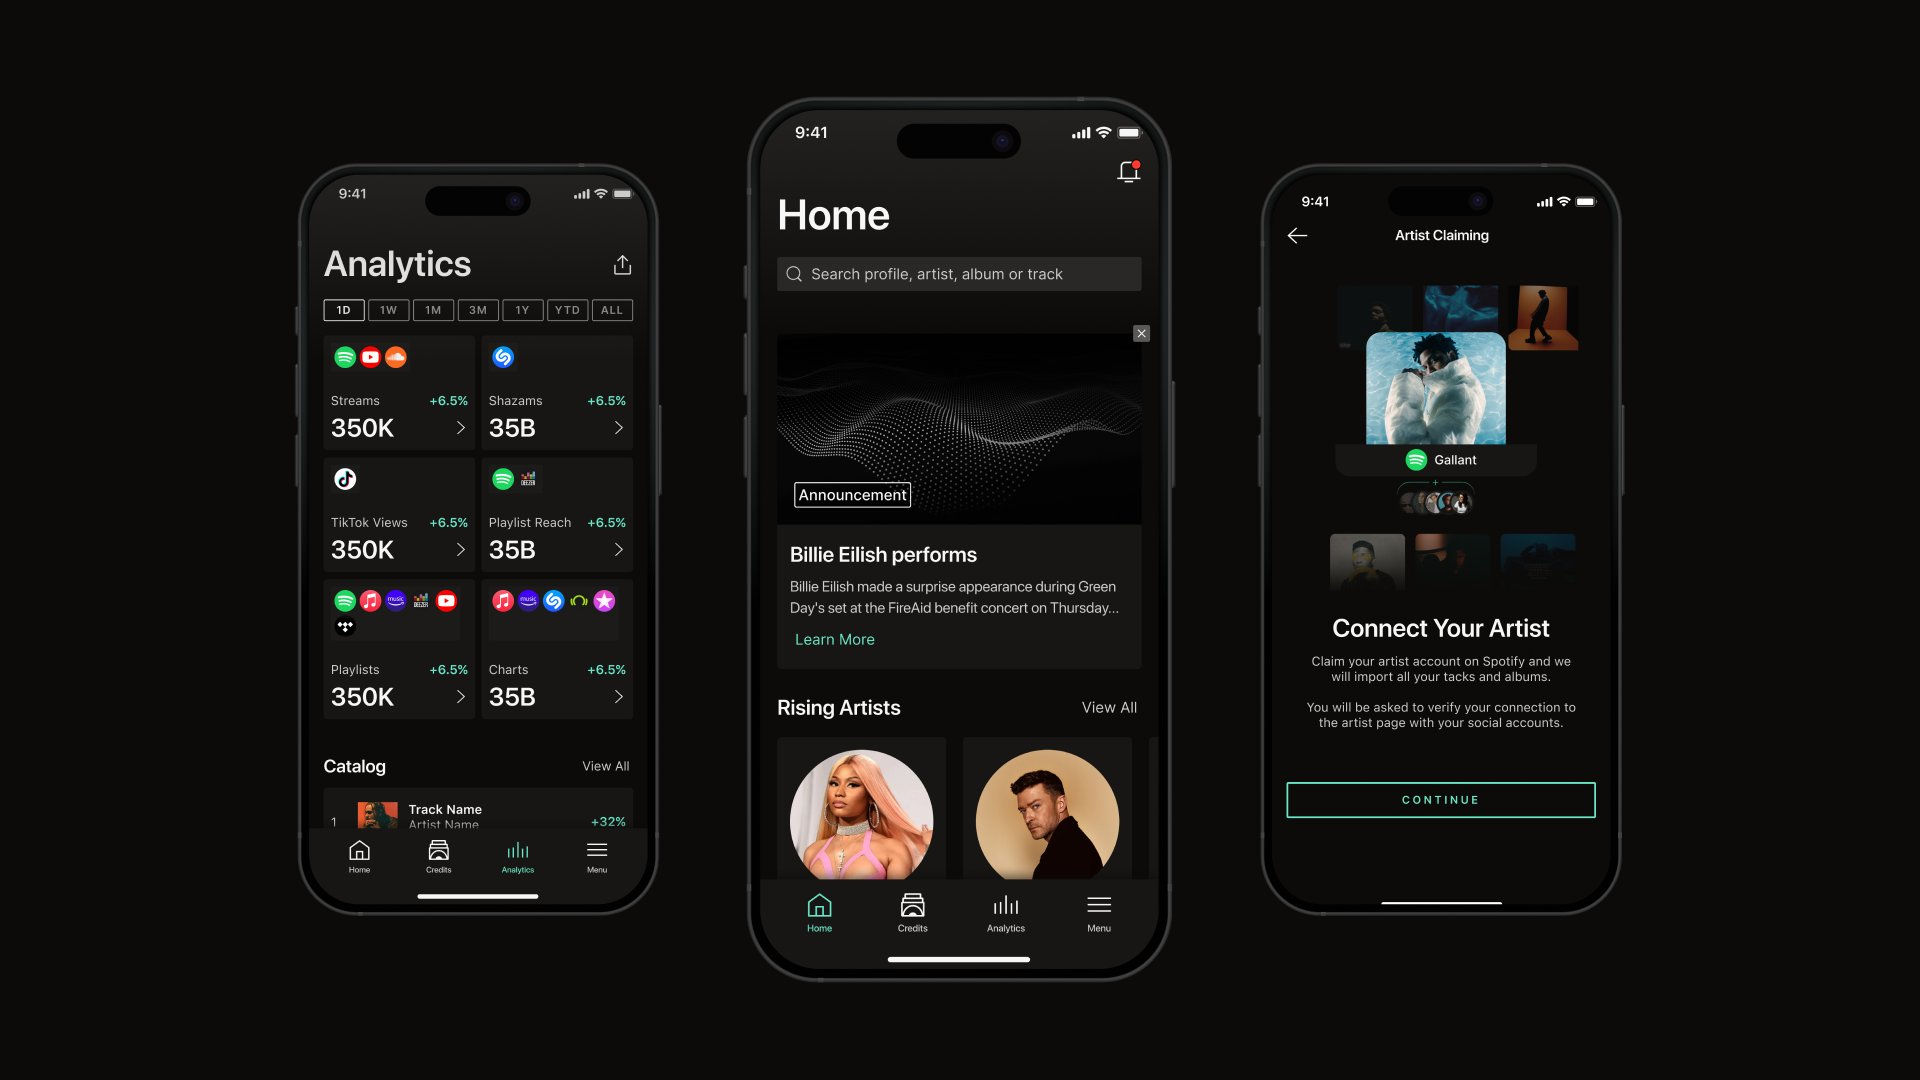
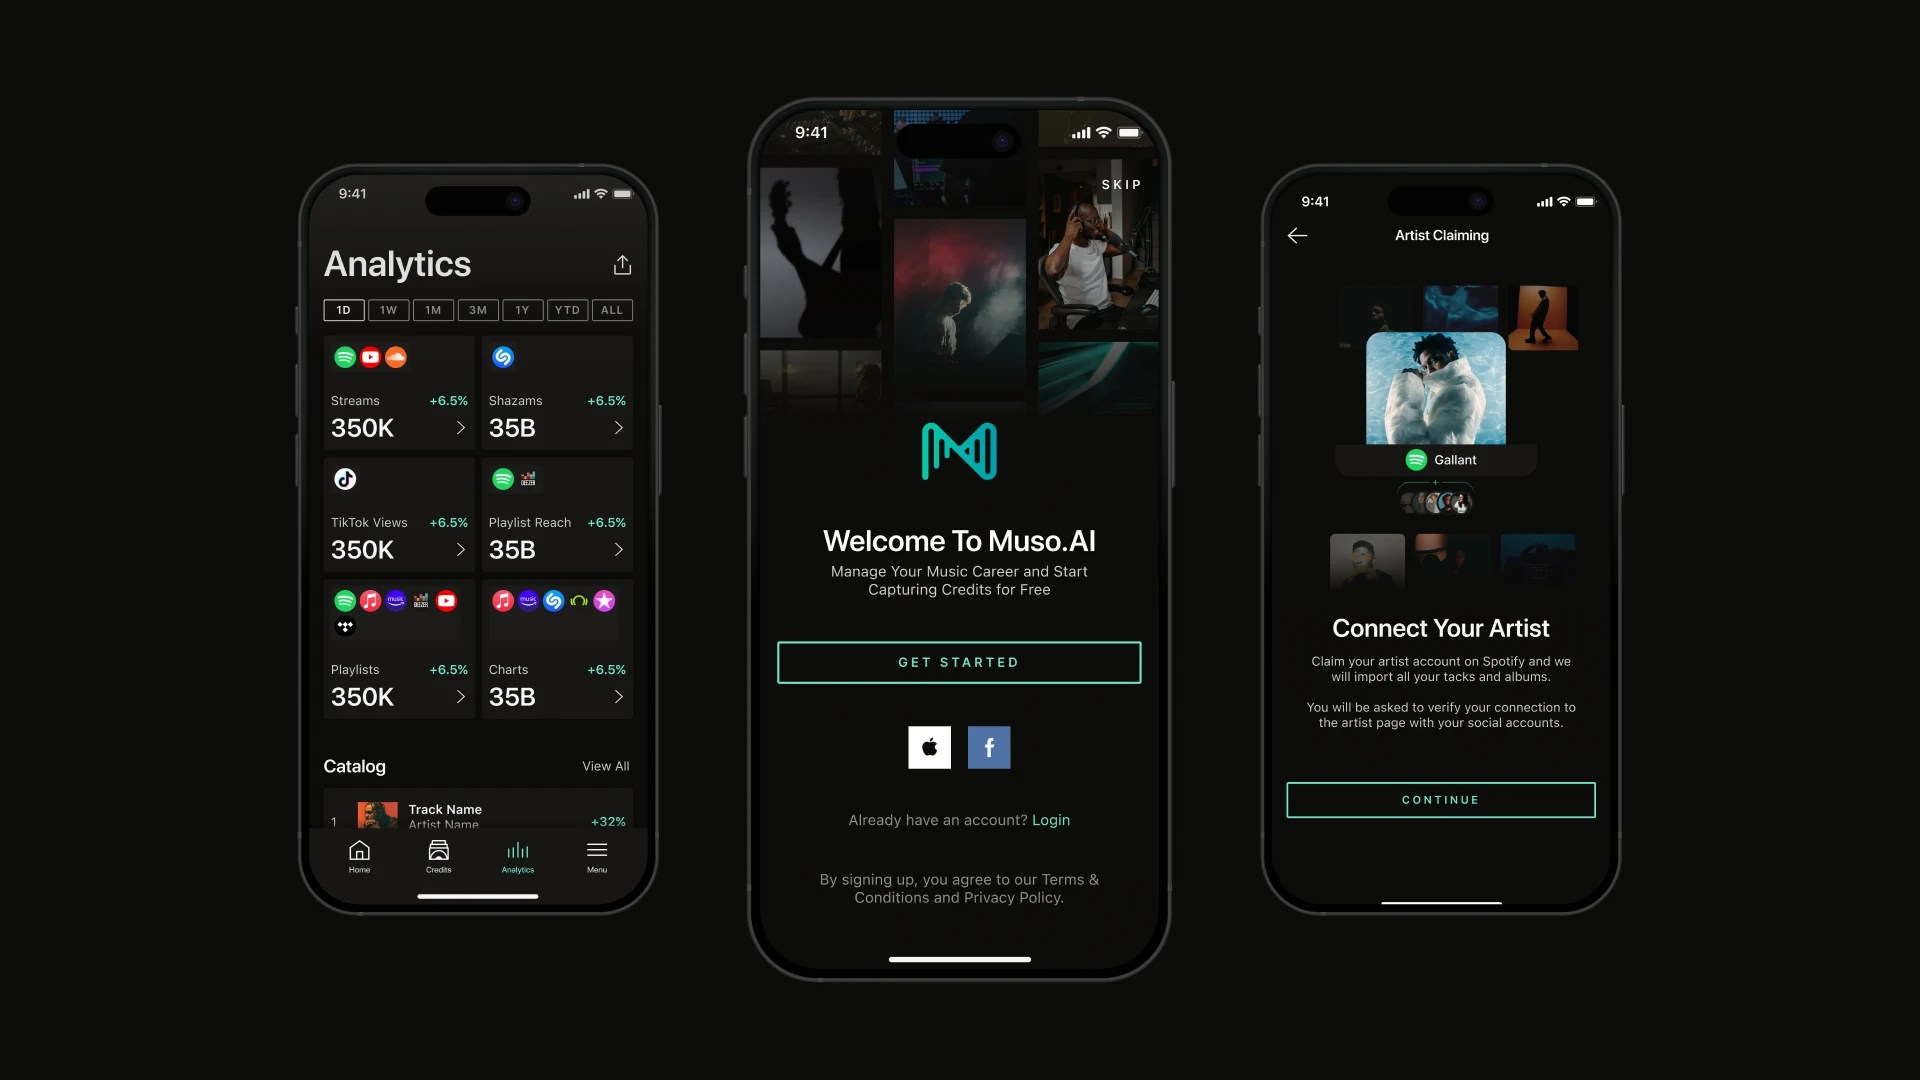
Add Falc AI case study and new Muso.AI cover

diff --git a/work/falc-ai.html b/work/falc-ai.html
@@ -1,0 +1,225 @@
+<!doctype html>
+<html lang="en">
+<head>
+<meta charset="utf-8">
+<meta name="robots" content="noindex">
+<meta name="viewport" content="width=device-width, initial-scale=1, viewport-fit=cover">
+<title>Falc AI — Case study — Anton Shmatko</title>
+<meta name="description" content="An AI-powered store analytics platform. I helped turn complex data and administrative workflows into a clearer interface for understanding store performance and managing team access.">
+<script>var d=document.documentElement;try{localStorage.removeItem('theme');if(sessionStorage.getItem('theme')!=='dark')d.setAttribute('data-theme','light')}catch(e){d.setAttribute('data-theme','light')}</script>
+<link rel="canonical" href="https://anton-portfolio-five.vercel.app/work/falc-ai">
+<meta property="og:type" content="website">
+<meta property="og:site_name" content="Anton Shmatko">
+<meta property="og:url" content="https://anton-portfolio-five.vercel.app/work/falc-ai">
+<meta property="og:title" content="Falc AI — Case study — Anton Shmatko">
+<meta property="og:description" content="An AI-powered store analytics platform. I helped turn complex data and administrative workflows into a clearer interface for understanding store performance and managing team access.">
+<meta property="og:image" content="https://anton-portfolio-five.vercel.app/assets/og.png">
+<meta property="og:image:width" content="1200">
+<meta property="og:image:height" content="630">
+<meta name="twitter:card" content="summary_large_image">
+<link rel="icon" href="../assets/favicon.png" type="image/png">
+<link rel="apple-touch-icon" href="../assets/apple-touch-icon.png">
+<link rel="preconnect" href="https://fonts.googleapis.com">
+<link rel="preconnect" href="https://fonts.gstatic.com" crossorigin>
+<link href="https://fonts.googleapis.com/css2?family=Urbanist:ital,wght@0,300;0,400;0,500;0,600;1,300;1,400&display=swap" rel="stylesheet">
+<link rel="stylesheet" href="../assets/site.css">
+<link rel="stylesheet" href="../assets/case.css">
+<script src="../assets/media.js"></script>
+</head>
+<body>
+<canvas id="stars" aria-hidden="true"></canvas>
+
+<div class="page">
+  <header class="top">
+    <div class="wrap">
+      <a class="id" href="../index.html" aria-label="Anton Shmatko — home"><span class="logo">AS</span></a>
+      <span class="status"><i aria-hidden="true"></i>Open to new opportunities</span>
+      <nav class="main" aria-label="Main">
+        <a class="link" href="index.html">Work</a>
+        <a class="link" href="../about.html">About</a>
+        <a class="pill" href="#contact">Get in touch</a>
+      </nav>
+    </div>
+  </header>
+
+  <main>
+    <div class="wrap case-hero">
+      <a class="label back" href="index.html"><svg viewBox="0 0 16 16" fill="none" aria-hidden="true" width="14" height="14"><path d="M13 8H3M7 4L3 8l4 4" stroke="currentColor" stroke-width="1.5"/></svg>All work</a>
+      <span class="label eyebrow">Case study · Retail analytics</span>
+      <h1>Falc AI</h1>
+      <p class="lede">An AI-powered store analytics platform. I helped turn complex data and administrative workflows into a clearer interface for understanding store performance and managing team access.</p>
+
+      <dl class="case-meta">
+        <div><dt class="label">My role</dt><dd>Product Designer</dd></div>
+        <div><dt class="label">Scope</dt><dd>Analytics · User management</dd></div>
+        <div><dt class="label">Platform</dt><dd>Web Application</dd></div>
+      </dl>
+
+      <figure class="case-cover">
+        <div class="frame" style="--ratio: 16 / 9" data-hint="Cover image · 2400×1350 · JPG or WebP">
+          <img src="../media/falc-ai/01.jpg" alt="Falc AI — product overview" fetchpriority="high">
+        </div>
+      </figure>
+    </div>
+
+    <div class="wrap case-body">
+      <div class="case-text reveal">
+        <h2>Overview</h2>
+        <div class="body">
+          <p>Falc AI brings store analytics into a digital workspace, helping teams explore performance data and understand what is happening across their retail operations.</p>
+          <p>My design work focused on making that information easier to navigate and act on. Alongside the analytics experience, I worked on user management to give the platform a consistent approach to everyday administration.</p>
+        </div>
+      </div>
+
+      <div class="gallery">
+        <figure class="full">
+          <div class="frame" style="--ratio: 16 / 9" data-hint="1920×1080 · JPG, PNG or WebP">
+            <img src="../media/falc-ai/02.jpg" alt="Falc AI — screen 2" loading="lazy">
+          </div>
+        </figure>
+        <figure>
+          <div class="frame" style="--ratio: 16 / 9" data-hint="950×534 · JPG, PNG or WebP">
+            <img src="../media/falc-ai/03.jpg" alt="Falc AI — screen 3" loading="lazy">
+          </div>
+        </figure>
+        <figure>
+          <div class="frame" style="--ratio: 16 / 9" data-hint="950×534 · JPG, PNG or WebP">
+            <img src="../media/falc-ai/04.jpg" alt="Falc AI — screen 4" loading="lazy">
+          </div>
+        </figure>
+      </div>
+
+      <div class="case-text reveal">
+        <h2>My role</h2>
+        <div class="body">
+          <p>As a Product Designer, I translated product requirements into structured workflows and detailed interfaces. My focus was on connecting data-heavy screens with clear navigation, readable layouts, and consistent interaction patterns.</p>
+          <ul>
+            <li>Organized analytics interfaces around clear information hierarchy.</li>
+            <li>Designed user management workflows for administering team access.</li>
+            <li>Established reusable interface patterns across product screens.</li>
+          </ul>
+        </div>
+      </div>
+
+      <div class="gallery">
+        <figure class="full">
+          <div class="frame" style="--ratio: 16 / 9" data-hint="1920×1080 · JPG, PNG or WebP">
+            <img src="../media/falc-ai/05.jpg" alt="Falc AI — screen 5" loading="lazy">
+          </div>
+        </figure>
+      </div>
+
+      <div class="case-text reveal">
+        <h2>Challenge</h2>
+        <div class="body">
+          <p>Store analytics can present a large amount of information at once. Without a clear hierarchy, users have to spend time interpreting the interface before they can interpret the data.</p>
+          <p>The challenge was to make analytical screens easier to scan while giving administrative tasks, such as user management, the same level of clarity and attention.</p>
+        </div>
+      </div>
+
+      <div class="gallery">
+        <figure class="full">
+          <div class="frame" style="--ratio: 16 / 9" data-hint="1920×1080 · JPG, PNG or WebP">
+            <img src="../media/falc-ai/06.jpg" alt="Falc AI — screen 6" loading="lazy">
+          </div>
+        </figure>
+        <figure class="full">
+          <div class="frame" style="--ratio: 16 / 9" data-hint="1920×1080 · JPG, PNG or WebP">
+            <img src="../media/falc-ai/07.jpg" alt="Falc AI — screen 7" loading="lazy">
+          </div>
+        </figure>
+      </div>
+
+      <div class="case-text reveal">
+        <h2>Approach</h2>
+        <div class="body">
+          <p>I focused on how users move from an overview to the details they need. Clear grouping, consistent controls, and deliberate visual hierarchy helped organize dense information into more manageable screens.</p>
+          <p>For user management, I applied the same principles to make account information and available actions easy to distinguish. Shared interface patterns connected these workflows with the wider product.</p>
+        </div>
+      </div>
+
+      <div class="gallery">
+        <figure class="full">
+          <div class="frame" style="--ratio: 16 / 9" data-hint="1920×1080 · JPG, PNG or WebP">
+            <img src="../media/falc-ai/08.jpg" alt="Falc AI — screen 8" loading="lazy">
+          </div>
+        </figure>
+        <figure>
+          <div class="frame" style="--ratio: 16 / 9" data-hint="950×534 · JPG, PNG or WebP">
+            <img src="../media/falc-ai/09.jpg" alt="Falc AI — screen 9" loading="lazy">
+          </div>
+        </figure>
+        <figure>
+          <div class="frame" style="--ratio: 16 / 9" data-hint="950×534 · JPG, PNG or WebP">
+            <img src="../media/falc-ai/10.jpg" alt="Falc AI — screen 10" loading="lazy">
+          </div>
+        </figure>
+      </div>
+
+      <div class="case-text reveal">
+        <h2>Outcome</h2>
+        <div class="body">
+          <p>My contribution gave Falc AI a more structured interface for exploring store analytics and managing users. The designs made key information more prominent and brought greater consistency to navigation, controls, and actions.</p>
+          <p>This established a cohesive foundation for extending the product as new analytical and administrative needs emerged.</p>
+        </div>
+      </div>
+
+      <div class="gallery">
+        <figure class="full">
+          <div class="frame" style="--ratio: 16 / 9" data-hint="1920×1080 · JPG, PNG or WebP">
+            <img src="../media/falc-ai/11.jpg" alt="Falc AI — screen 11" loading="lazy">
+          </div>
+        </figure>
+        <figure class="full">
+          <div class="frame" style="--ratio: 16 / 9" data-hint="1920×1080 · JPG, PNG or WebP">
+            <img src="../media/falc-ai/12.jpg" alt="Falc AI — screen 12" loading="lazy">
+          </div>
+        </figure>
+      </div>
+
+    </div>
+
+    <section class="next-wrap" aria-label="Next project">
+      <div class="wrap">
+        <a class="next" href="lumi-ai.html">
+          <div>
+            <span class="label next-label">Next project</span>
+            <h2>Lumi AI</h2>
+            <p>An AI-powered analytics platform that turns complex business data into actionable insights through conversational AI, interactive dashboards, and connected knowledge sources.</p>
+            <span class="work-cta">View case study <svg viewBox="0 0 16 16" fill="none" aria-hidden="true"><path d="M3 8h10M9 4l4 4-4 4" stroke="currentColor" stroke-width="1.5"/></svg></span>
+          </div>
+          <div class="frame" data-ph="off" style="--ratio: 16 / 9; --g: linear-gradient(135deg, #2347F5, #7F95FF)">
+            <img src="../media/lumi-ai/01.jpg" alt="" loading="lazy">
+          </div>
+        </a>
+      </div>
+    </section>
+  </main>
+
+  <footer class="foot" id="contact">
+    <div class="wrap">
+      <span class="label">Let’s work together</span>
+      <a class="foot-cta" href="mailto:antonshmatko.designs@gmail.com">
+        <span class="foot-title">Let’s talk about<br>what comes next.</span>
+        <svg class="foot-arrow" viewBox="0 0 24 24" fill="none" stroke="currentColor" stroke-width="1.2" stroke-linecap="round" stroke-linejoin="round" aria-hidden="true"><path d="M5 19 19 5M5 5h14v14"/></svg>
+      </a>
+      <button class="foot-mail" type="button" data-copy="antonshmatko.designs@gmail.com" aria-label="Copy email address antonshmatko.designs@gmail.com">
+        <span>antonshmatko.designs@gmail.com</span>
+        <span class="foot-mail-hint" aria-hidden="true">Click to copy</span>
+      </button>
+      <span class="sr-only" role="status" id="copyStatus"></span>
+      <div class="foot-bottom">
+        <span>Designed and built by Anton Shmatko</span>
+        <a class="foot-link" href="../privacy.html">Privacy</a>
+        <nav class="socials" aria-label="Elsewhere">
+          <a href="https://www.behance.net/AntonDesign96" target="_blank" rel="noopener">Behance <svg viewBox="0 0 16 16" fill="none" aria-hidden="true"><path d="M5 11 11 5M6 5h5v5" stroke="currentColor" stroke-width="1.4"/></svg><span class="sr-only">(opens in a new tab)</span></a>
+          <a href="https://dribbble.com/Shmatko" target="_blank" rel="noopener">Dribbble <svg viewBox="0 0 16 16" fill="none" aria-hidden="true"><path d="M5 11 11 5M6 5h5v5" stroke="currentColor" stroke-width="1.4"/></svg><span class="sr-only">(opens in a new tab)</span></a>
+        </nav>
+      </div>
+    </div>
+  </footer>
+</div>
+
+<script src="../assets/site.js"></script>
+</body>
+</html>

diff --git a/work/muso-ai.html b/work/muso-ai.html
@@ -192,15 +192,15 @@
 
     <section class="next-wrap" aria-label="Next project">
       <div class="wrap">
-        <a class="next" href="lumi-ai.html">
+        <a class="next" href="falc-ai.html">
           <div>
             <span class="label next-label">Next project</span>
-            <h2>Lumi AI</h2>
-            <p>An AI-powered analytics platform that turns complex business data into actionable insights through conversational AI, interactive dashboards, and connected knowledge sources.</p>
+            <h2>Falc AI</h2>
+            <p>An AI-powered retail analytics product that helps teams understand store performance, explore data, and identify opportunities for improvement.</p>
             <span class="work-cta">View case study <svg viewBox="0 0 16 16" fill="none" aria-hidden="true"><path d="M3 8h10M9 4l4 4-4 4" stroke="currentColor" stroke-width="1.5"/></svg></span>
           </div>
-          <div class="frame" data-ph="off" style="--ratio: 16 / 9; --g: linear-gradient(135deg, #2347F5, #7F95FF)">
-            <img src="../media/lumi-ai/01.jpg" alt="" loading="lazy">
+          <div class="frame" data-ph="off" style="--ratio: 16 / 9; --g: linear-gradient(150deg, #E9EAEC, #C9CCD1)">
+            <img src="../media/falc-ai/01.jpg" alt="" loading="lazy">
           </div>
         </a>
       </div>

diff --git a/index.html b/index.html
@@ -135,6 +135,14 @@ a.q-tag:hover { color: var(--fg); border-color: var(--fg); }
               <p>A home energy platform that helps homeowners plan and manage energy-saving improvements, making complex renovation decisions easier to understand.</p>
               <span class="work-cta">View case study <svg viewBox="0 0 16 16" fill="none" aria-hidden="true"><path d="M3 8h10M9 4l4 4-4 4" stroke="currentColor" stroke-width="1.5"/></svg></span>
             </a>
+            <a class="work reveal" href="work/falc-ai.html">
+              <div class="media" style="--g: linear-gradient(150deg, #E9EAEC, #C9CCD1)">
+                <img src="media/falc-ai/01.jpg" alt="Falc AI" loading="lazy" onerror="this.remove()">
+              </div>
+              <div class="meta"><b>Falc AI</b><span>Retail analytics</span></div>
+              <p>An AI-powered retail analytics product that helps teams understand store performance, explore data, and identify opportunities for improvement.</p>
+              <span class="work-cta">View case study <svg viewBox="0 0 16 16" fill="none" aria-hidden="true"><path d="M3 8h10M9 4l4 4-4 4" stroke="currentColor" stroke-width="1.5"/></svg></span>
+            </a>
           </div>
           <div class="col">
             <a class="work reveal" href="work/mava-ai.html">

diff --git a/work/index.html b/work/index.html
@@ -73,6 +73,14 @@
               <p>A home energy platform that helps homeowners plan and manage energy-saving improvements, making complex renovation decisions easier to understand.</p>
               <span class="work-cta">View case study <svg viewBox="0 0 16 16" fill="none" aria-hidden="true"><path d="M3 8h10M9 4l4 4-4 4" stroke="currentColor" stroke-width="1.5"/></svg></span>
             </a>
+            <a class="work reveal" href="../work/falc-ai.html">
+              <div class="media" style="--g: linear-gradient(150deg, #E9EAEC, #C9CCD1)">
+                <img src="../media/falc-ai/01.jpg" alt="Falc AI" loading="lazy" onerror="this.remove()">
+              </div>
+              <div class="meta"><b>Falc AI</b><span>Retail analytics</span></div>
+              <p>An AI-powered retail analytics product that helps teams understand store performance, explore data, and identify opportunities for improvement.</p>
+              <span class="work-cta">View case study <svg viewBox="0 0 16 16" fill="none" aria-hidden="true"><path d="M3 8h10M9 4l4 4-4 4" stroke="currentColor" stroke-width="1.5"/></svg></span>
+            </a>
           </div>
           <div class="col">
             <a class="work reveal" href="../work/mava-ai.html">
